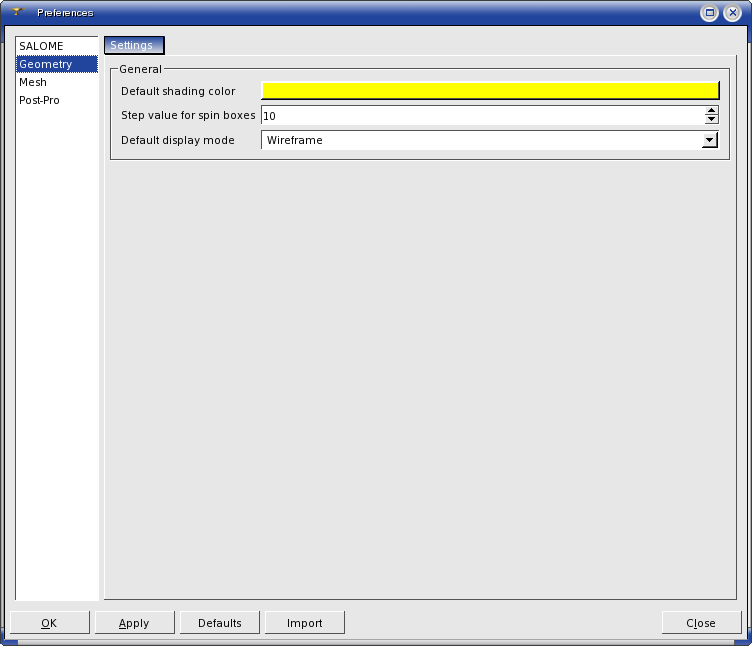
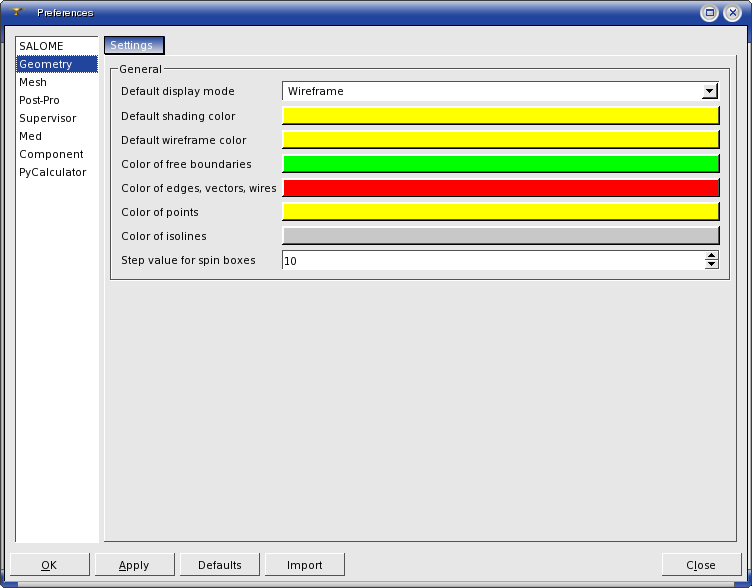
GUI help update, connected  with PAL12858 solving.

Changed region(s): [[0.0, 0.0, 1.0, 0.4898], [0.0, 0.9184, 1.0, 1.0]]

diff --git a/doc/salome/gui/GUI/geom_preferences.htm b/doc/salome/gui/GUI/geom_preferences.htm
@@ -15,10 +15,10 @@ if (navigator.appName !="Netscape")
 <style type="text/css">
 <!--
 p.whs1 { font-family:'Times New Roman' , serif; margin-left:40px; }
-img_whs2 { border:none; border-style:none; width:752px; height:646px; float:none; }
+img_whs2 { border:none; width:752px; height:588px; float:none; border-style:none; }
 ul.whs3 { list-style:disc; }
-p.whs4 { margin-left:40px; }
-p.whs5 { margin-left:40px; font-weight:bold; }
+p.whs4 { margin-left:40px; font-weight:bold; }
+p.whs5 { margin-left:40px; }
 -->
 </style><script type="text/javascript" language="JavaScript" title="WebHelpInlineScript">
 <!--
@@ -87,23 +87,49 @@ if (window.writeIntopicBar)
 
 <p>&nbsp;</p>
 
-<p class="whs1"><img src="pics/pref15.png" x-maintain-ratio="TRUE" width="752px" height="646px" border="0" class="img_whs2"></p>
+<p class="whs1"><img src="pics/pref15.png" x-maintain-ratio="TRUE" width="752px" height="588px" border="0" class="img_whs2"></p>
+
+<p class="whs1">&nbsp;</p>
+
+<p class="whs1">For 
+ all color definitions click on the respective line to access to the <span 
+ style="font-weight: bold;"><B><a href="select_color_and_font.htm">Select 
+ Color</a></B></span> dialog box. </p>
 
 <p>&nbsp;</p>
 
 <ul type="disc" class="whs3">
 	
-	<li class=kadov-p><p class="whs4"><span style="font-weight: bold;"><B>Default 
- Shading Color</B></span> - allows to select default shading color. Click on 
- the colored line to access to the <span style="font-weight: bold;"><B><a href="select_color_and_font.htm">Select Color</a></B></span> dialog box. </p></li>
-	
-	<li class=kadov-p><p class="whs5">Step 
- Value for Spin Boxes - <span style="font-weight: normal;">allows to define 
- the increment of values set in spin boxes. </span>&nbsp;</p></li>
-	
-	<li class=kadov-p><p class="whs5">Default 
+	<li class=kadov-p><p class="whs4">Default 
  Display Mode - <span style="font-weight: normal;">allows to choose between</span> 
  <span style="font-weight: normal;">wireframe or shading.</span></p></li>
+	
+	<li class=kadov-p><p class="whs5"><span style="font-weight: bold;"><B>Default 
+ Shading Color</B></span> - allows to select default shading color. </p></li>
+	
+	<li class=kadov-p><p class="whs5"><span style="font-weight: bold;"><B>Default 
+ Wireframe Color</B></span> - allows to select default wireframe color (to 
+ be applied to any lines not being free boundaries or isolated lines).</p></li>
+	
+	<li class=kadov-p><p class="whs5"><span style="font-weight: bold;"><B>Color 
+ of free boundaries</B></span> - allows to select default color for free boundaries. 
+ </p></li>
+	
+	<li class=kadov-p><p class="whs4">Color 
+ of edges, vectors and wires - <span style="font-weight: normal;">allows 
+ to select default color for edges, vectors and wires (isolated lines).</span></p></li>
+	
+	<li class=kadov-p><p class="whs4">Color 
+ of points - <span style="font-weight: normal;">allows to select default 
+ color for vertices.</span></p></li>
+	
+	<li class=kadov-p><p class="whs4">Color 
+ of isolines - <span style="font-weight: normal;">allows to select default 
+ color for isolines.</span></p></li>
+	
+	<li class=kadov-p><p class="whs4">Step 
+ Value for Spin Boxes - <span style="font-weight: normal;">allows to define 
+ the increment of values set in spin boxes. </span>&nbsp;</p></li>
 </ul>
 
 <p>&nbsp;</p>
